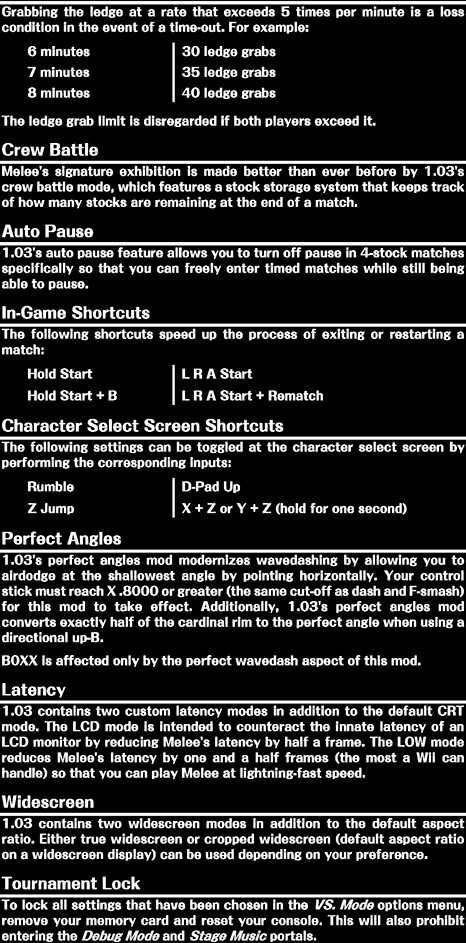
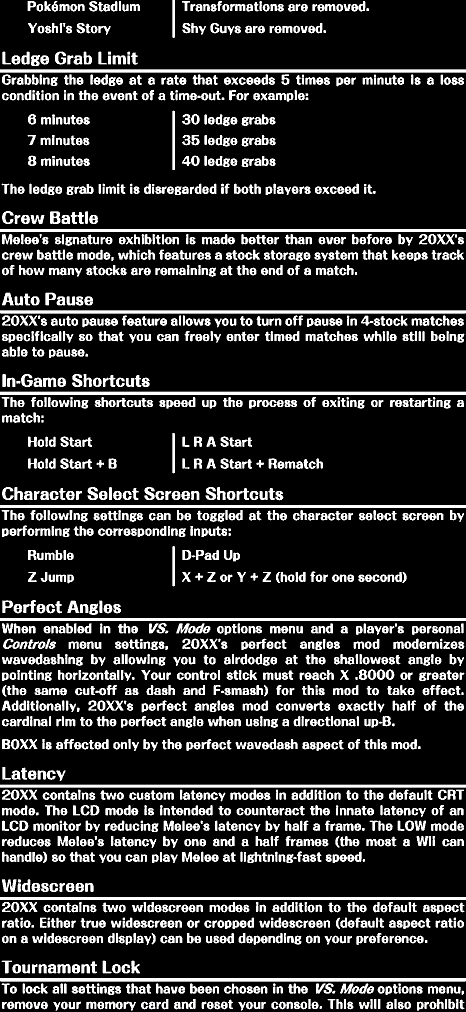
update manual

diff --git a/src/mod/src/menu/manual.cpp b/src/mod/src/menu/manual.cpp
@@ -22,17 +22,21 @@
 #ifdef DOL
 #include "resources/manual/te/dol/manual_p1.tex.h"
 #include "resources/manual/te/dol/manual_p2.tex.h"
+#include "resources/manual/te/dol/manual_p3.tex.h"
 #else
 #include "resources/manual/te/manual_p1.tex.h"
 #include "resources/manual/te/manual_p2.tex.h"
+#include "resources/manual/te/manual_p3.tex.h"
 #endif
 #else
 #ifdef DOL
 #include "resources/manual/le/dol/manual_p1.tex.h"
 #include "resources/manual/le/dol/manual_p2.tex.h"
+#include "resources/manual/le/dol/manual_p3.tex.h"
 #else
 #include "resources/manual/le/manual_p1.tex.h"
 #include "resources/manual/le/manual_p2.tex.h"
+#include "resources/manual/le/manual_p3.tex.h"
 #endif
 #endif
 #include "resources/manual/manual_border.tex.h"
@@ -47,6 +51,7 @@ constexpr auto manual_margin = 13;
 
 static texture texture_p1;
 static texture texture_p2;
+static texture texture_p3;
 static texture texture_border;
 static texture texture_scrollbar;
 
@@ -75,7 +80,7 @@ constexpr auto bottom_text = text_builder::build(
 
 static float max_scroll_offset()
 {
-	const auto total_height = texture_p1.height() + texture_p2.height();
+	const auto total_height = texture_p1.height() + texture_p2.height() + texture_p3.height();
 	return (float)std::max(total_height - (scissor_h - manual_margin * 2), 0);
 }
 
@@ -127,9 +132,11 @@ static void draw_manual(HSD_GObj *gobj, u32 pass)
 
 	const auto pos_p1 = vec3(320, scissor_y + manual_margin - scroll_offset, manual_z);
 	const auto pos_p2 = pos_p1 + vec3(0, texture_p1.height(), 0);
+	const auto pos_p3 = pos_p2 + vec3(0, texture_p2.height(), 0);
 
 	rs.fill_rect(pos_p1, vec2(texture_p1.size()), texture_p1, align::top);
 	rs.fill_rect(pos_p2, vec2(texture_p2.size()), texture_p2, align::top);
+	rs.fill_rect(pos_p3, vec2(texture_p3.size()), texture_p3, align::top);
 
 	constexpr auto border_color = color_rgba::hex(0x929196FFu);
 
@@ -169,6 +176,7 @@ extern "C" void hook_Menu_EnterCustomRulesMenu()
 
 	pool.add(init_texture(manual_p1_tex_data, &texture_p1));
 	pool.add(init_texture(manual_p2_tex_data, &texture_p2));
+	pool.add(init_texture(manual_p3_tex_data, &texture_p3));
 	pool.add(init_texture(manual_border_tex_data, &texture_border));
 	pool.add(init_texture(scrollbar_tex_data, &texture_scrollbar));
 
